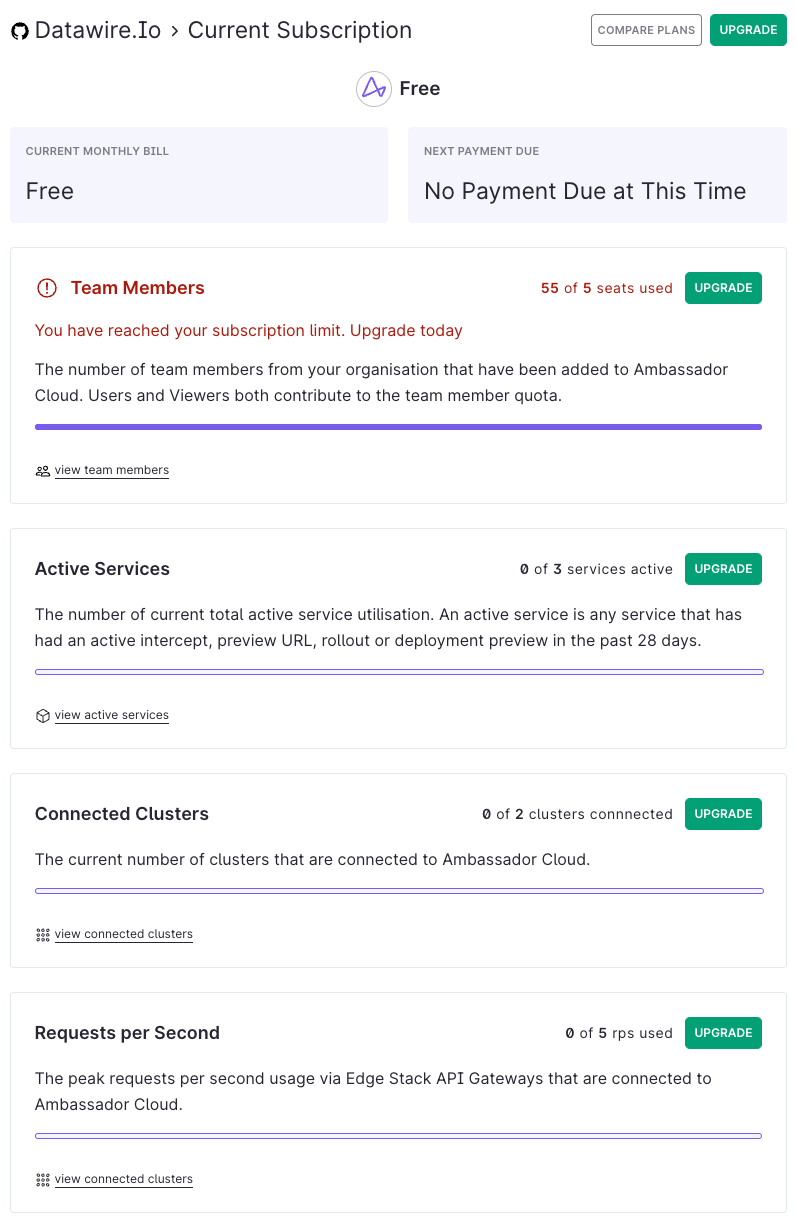
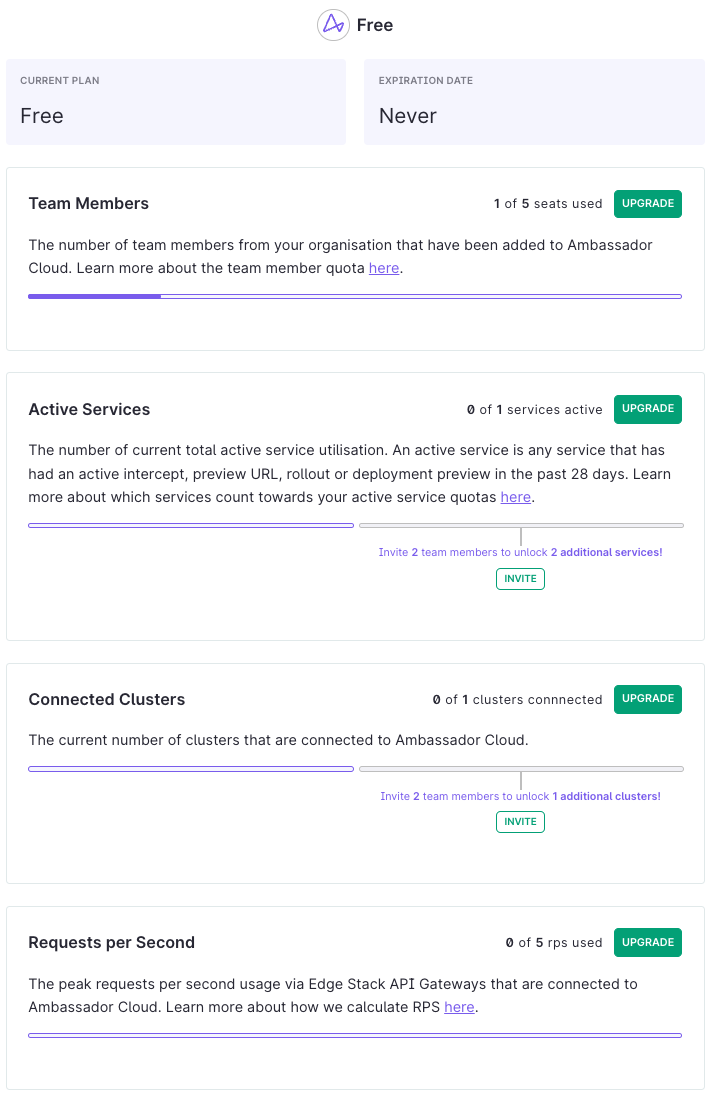
(from getambassador.io) Add active services section

diff --git a/docs/cloud/latest/subscriptions/howtos/manage-my-subscriptions.md b/docs/cloud/latest/subscriptions/howtos/manage-my-subscriptions.md
@@ -31,6 +31,14 @@ There are four quota limits that pertain to subscriptions:
 - Connected Clusters: The Kubernetes clusters you have connected to the Ambassador Cloud app.
 - Requests per Second: Requests per second (RPS) is the maximum usage in the cluster between Rate Limited Traffic and Authenticated Traffic. For multiple clusters, RPS is the sum of the maximum usage of each cluster. RPS is calculated from a database snapshot sent by Edge Stack every 30 seconds.
 
+### Active Services
+
+Active services can be listed by clicking **view actives services** in the Active services panel. If you delete your service and recreate it with the same name and in the same namespace, it will still count as 1 active service. If it's not in the same namespace, it will count as 2.
+
+  <p align="center">
+    <img src="../../images/active-services.png" width="400" alt="List your active services"/>
+  </p>
+
 ## Extend your quotas by adding more users
 
 On the Free subscription tier, you can unlock additional quotas by adding more team members to your organization. On the subcription page, click the INVITE button and follow the listed steps to invite new team members and gain access to additional clusters and services for free.
